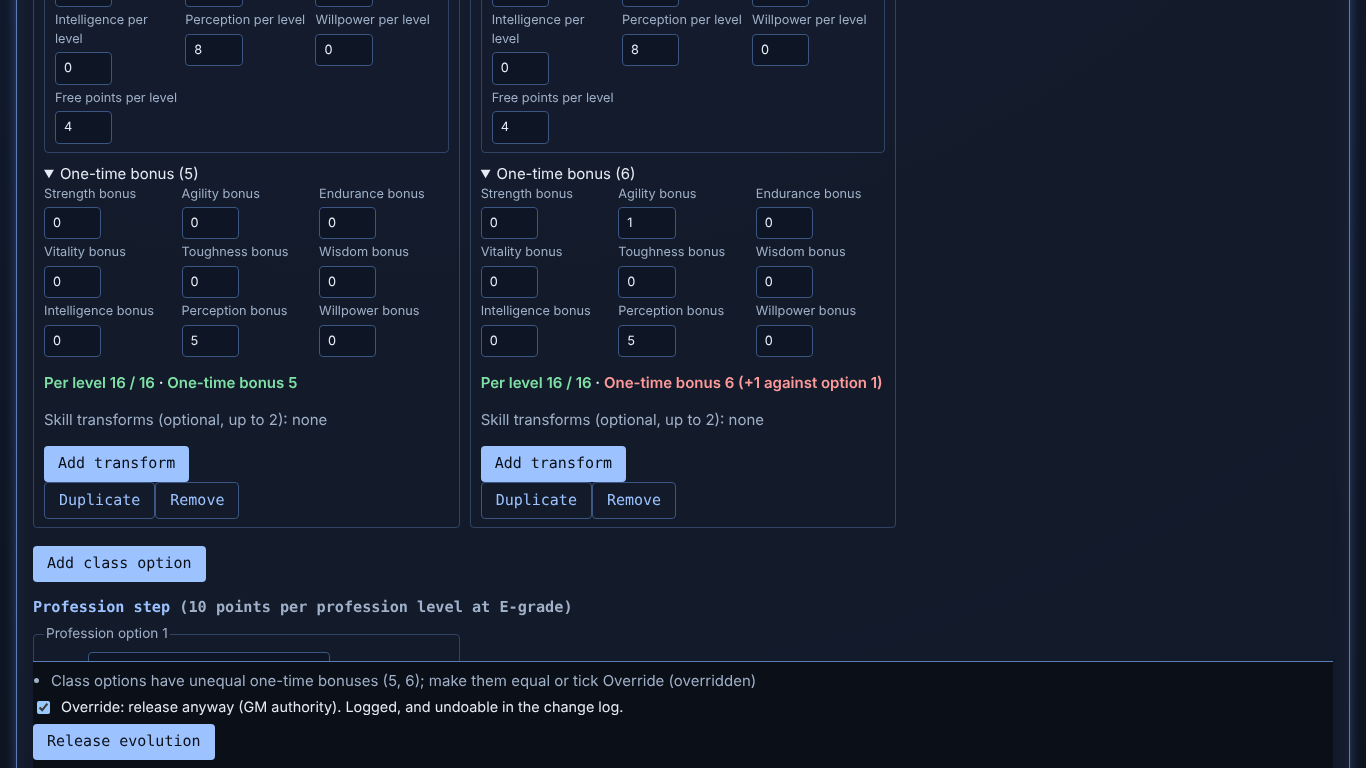
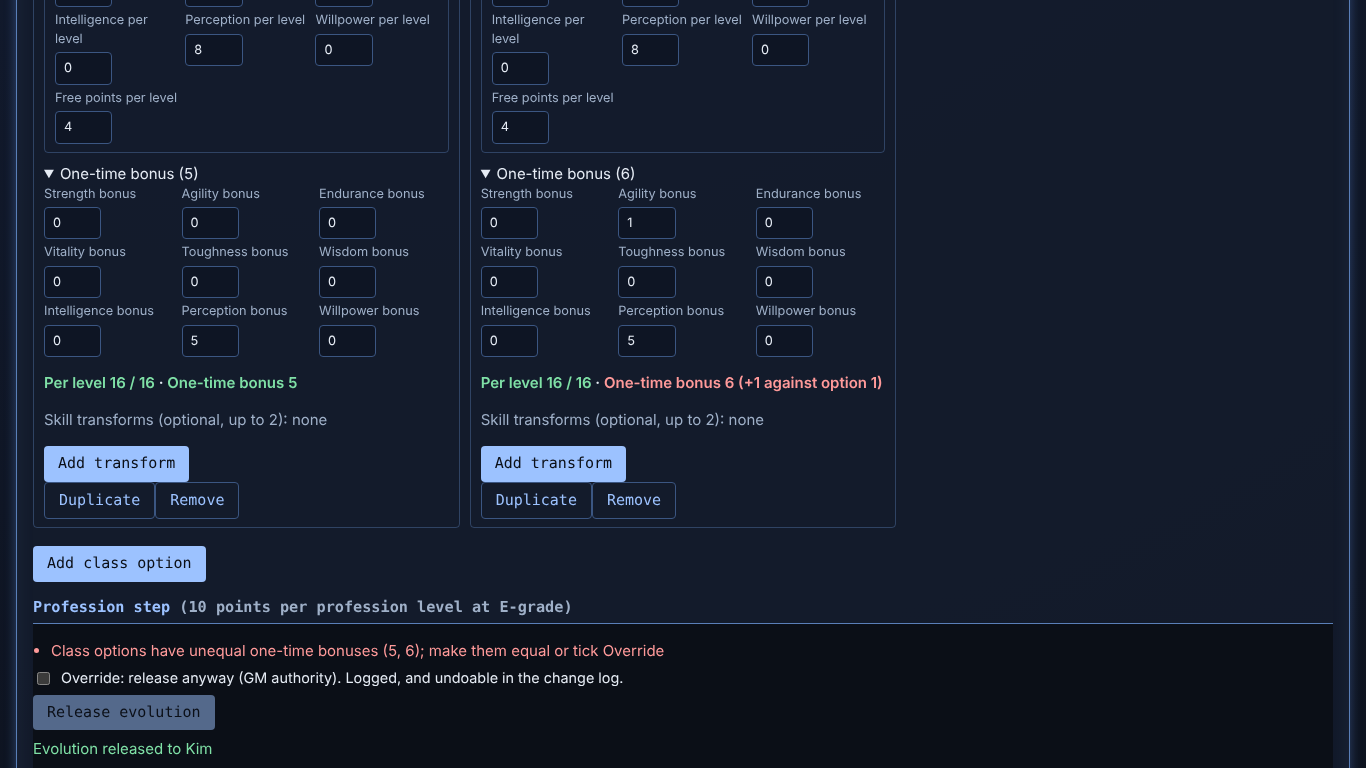
fix(ME.3): review round 2: release result inside the sticky bar; bar height capped; Override unticks after release
Claude-Session: https://claude.ai/code/session_015YxiCfJa4HoWm4AhsVuSDJ

Changed region(s): [[0.0, 0.8125, 0.5534, 1.0]]

diff --git a/apps/web/src/gm/EvolutionSteps.tsx b/apps/web/src/gm/EvolutionSteps.tsx
@@ -164,6 +164,7 @@ export function StepsForm({
     setBusy(true);
     const r = await client.command(command);
     setBusy(false);
+    if (r.ok) setOverride(false);
     setResult(
       r.ok
         ? { ok: true, text: `Evolution released to ${character.name}` }
@@ -425,12 +426,12 @@ export function StepsForm({
         <button type="submit" disabled={busy || blocked}>
           Release evolution
         </button>
+        {result && (
+          <p className={result.ok ? 'ok' : 'err'} role={result.ok ? 'status' : 'alert'}>
+            {result.text}
+          </p>
+        )}
       </div>
-      {result && (
-        <p className={result.ok ? 'ok' : 'err'} role={result.ok ? 'status' : 'alert'}>
-          {result.text}
-        </p>
-      )}
     </form>
   );
 }

diff --git a/e2e/ME.3.spec.ts b/e2e/ME.3.spec.ts
@@ -236,6 +236,8 @@ test('the GM builds and releases Kim’s E-grade evolution in three steps', asyn
   await expect(release).toBeEnabled();
   await release.click();
   await expect(builder.getByRole('status')).toHaveText('Evolution released to Kim');
+  await expect(builder.getByRole('status')).toBeInViewport();
+  await expect(form.getByLabel(/^Override: release anyway/)).not.toBeChecked();
   await expect(builder.getByTestId('evolution-released')).toContainText(
     '[Storm Archer], [Wind Archer]',
   );

diff --git a/apps/web/src/styles.css b/apps/web/src/styles.css
@@ -3431,6 +3431,11 @@ ol.change-log li.undone .change-text {
   background: var(--bg);
   border-top: 1px solid var(--border, #555);
   padding: 8px 0;
+  max-height: 40vh;
+  overflow: auto;
+}
+.evolution-steps {
+  scroll-padding-bottom: 40vh;
 }
 .evolution-builder .evolution-near {
   margin: 0 0 8px;
